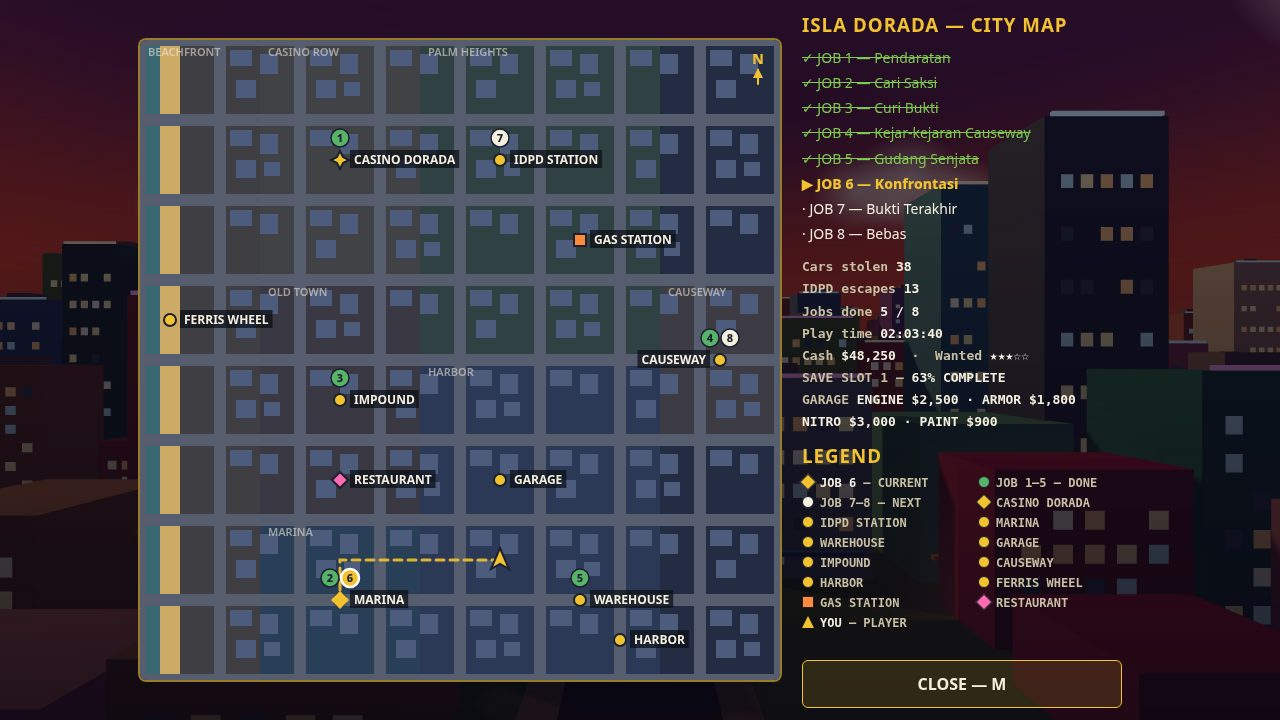
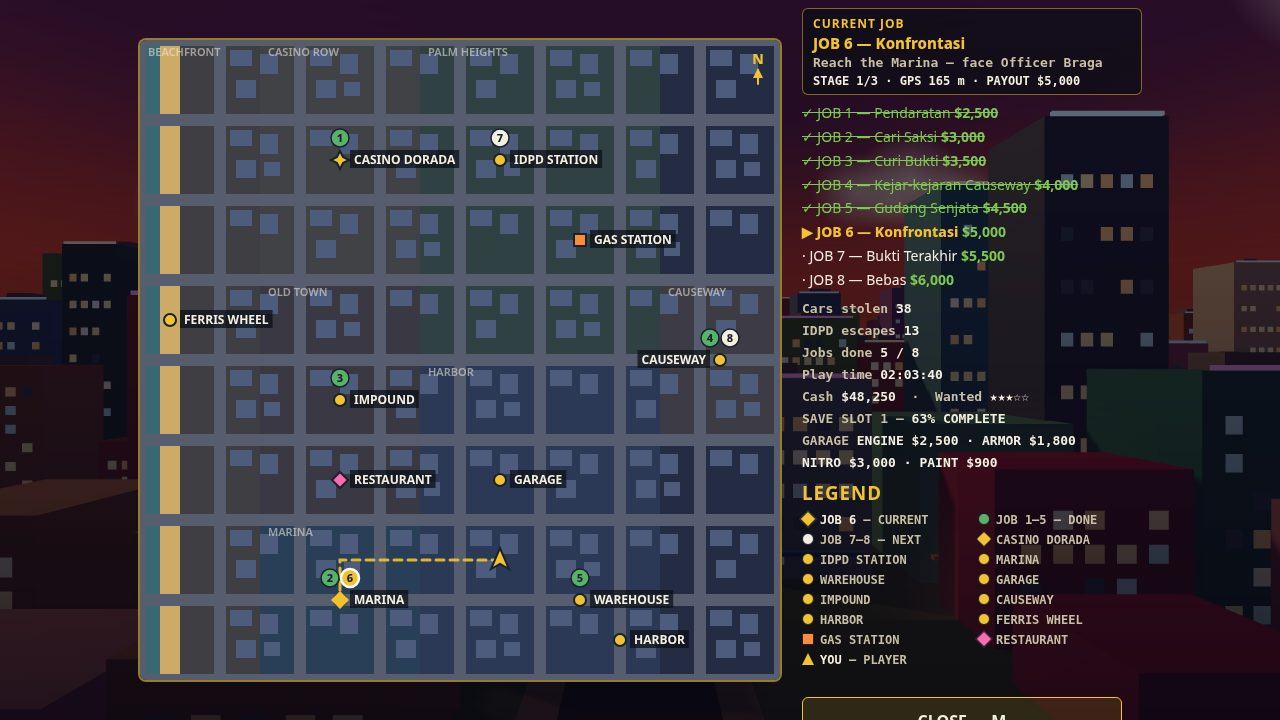
Map depth (recording #10): job payouts in checklist + CURRENT JOB panel (name, objective, stage, GPS, payout)

Changed region(s): [[0.625, 0.0, 0.875, 1.0]]

diff --git a/game/src/map.js b/game/src/map.js
@@ -11,6 +11,7 @@ import { Input } from './input.js';
 let canvas = null;
 let ctx = null;
 let checklistEl = null;
+let currentJobEl = null;
 let statsEl = null;
 let legendEl = null;
 let currentRoads = null;
@@ -131,8 +132,47 @@ function refreshChecklist(G) {
   checklistEl.innerHTML = MISSIONS.map((m, i) => {
     const cls = (i < idx || i < done) ? 'done' : (i === idx ? 'current' : '');
     const mark = (i < idx || i < done) ? '✓ ' : (i === idx ? '▶ ' : '· ');
-    return `<li class="${cls}">${mark}JOB ${i + 1} — ${m.name}</li>`;
+    // Payout: the same formula missions.js pays on completion
+    // (2000 + 500 * (index + 1)) — read from the formula, never hardcoded.
+    const pay = (2000 + 500 * (i + 1)).toLocaleString('en-US');
+    return `<li class="${cls}">${mark}JOB ${i + 1} — ${m.name} <span class="pay">$${pay}</span></li>`;
   }).join('');
+}
+
+// CURRENT JOB panel (HTML, in #map-side): the job in progress, from live G —
+// name + stage objective + stage + GPS distance + payout. Same data the HUD
+// mission panel and the minimap already show; the map now shows it too, the
+// way Halcyon's map shows its CURRENT JOB panel.
+function refreshCurrentJob(G) {
+  if (!currentJobEl) return;
+  const m = G.missions;
+  const idx = (m && typeof m.index === 'number') ? m.index : 0;
+  if (idx >= MISSIONS.length) {
+    currentJobEl.innerHTML =
+      `<h3>CURRENT JOB</h3>` +
+      `<div class="cj-name">ALL JOBS DONE</div>` +
+      `<div class="cj-obj">Isla Dorada is yours, Wowo.</div>` +
+      `<div class="cj-meta">8 / 8 COMPLETE</div>`;
+    return;
+  }
+  const def = MISSIONS[idx];
+  const stage = (m && typeof m.stage === 'number') ? m.stage : 1;
+  const stageCount = (m && typeof m.stageCount === 'number') ? m.stageCount : 3;
+  const objective = (m && m.objective) || def.objective || '';
+  const pay = (2000 + 500 * (idx + 1)).toLocaleString('en-US');
+  // GPS distance to the mission marker — the same formula the minimap uses.
+  let gps = '';
+  const marker = (m && m.marker) ? posOf(m.marker) : null;
+  const player = (G.player && G.player.pos) ? { x: G.player.pos.x, z: G.player.pos.z } : null;
+  if (marker && player) {
+    const d = Math.round(Math.hypot(marker.x - player.x, marker.z - player.z));
+    gps = ` · GPS ${d} m`;
+  }
+  currentJobEl.innerHTML =
+    `<h3>CURRENT JOB</h3>` +
+    `<div class="cj-name">JOB ${idx + 1} — ${def.name}</div>` +
+    `<div class="cj-obj">${objective}</div>` +
+    `<div class="cj-meta">STAGE ${stage}/${stageCount}${gps} · PAYOUT $${pay}</div>`;
 }
 
 function refreshStats(G) {
@@ -165,6 +205,7 @@ export function initMap(G) {
   canvas = document.getElementById('map-canvas');
   ctx = canvas ? canvas.getContext('2d') : null;
   checklistEl = document.getElementById('map-checklist');
+  currentJobEl = document.getElementById('map-current-job');
   statsEl = document.getElementById('map-stats');
   legendEl = document.getElementById('map-legend');
   const btn = document.getElementById('btn-close-map');
@@ -455,6 +496,7 @@ export function drawMap(G) {
 
   currentRoads = null;
   refreshChecklist(G);
+  refreshCurrentJob(G);
   refreshStats(G);
   refreshLegend(G);
 }

diff --git a/game/index.html b/game/index.html
@@ -90,12 +90,18 @@
   #map-canvas { border: 2px solid rgba(242,194,48,.6); border-radius: 8px; background: #10141f; }
   #map-side { width: 340px; }
   #map-side h3 { margin: 0 0 8px; color: var(--gold); letter-spacing: 1px; }
-  #map-checklist { list-style: none; margin: 0; padding: 0; font-size: 14px; line-height: 1.8; }
+  #map-checklist { list-style: none; margin: 0; padding: 0; font-size: 14px; line-height: 1.7; }
   #map-checklist li.done { color: var(--green); text-decoration: line-through; }
   #map-checklist li.current { color: var(--gold); font-weight: 800; }
-  #map-stats { margin-top: 10px; font: 600 13px var(--font-read); color: var(--muted); line-height: 1.7; }
+  #map-checklist .pay { color: var(--green); font-weight: 700; }
+  #map-current-job { margin: 0 0 6px; background: var(--panel); border: 1px solid rgba(242,194,48,.5); border-radius: 6px; padding: 6px 10px; }
+  #map-current-job h3 { margin: 0 0 1px; color: var(--gold); letter-spacing: 1px; font-size: 12px; }
+  #map-current-job .cj-name { color: var(--gold); font-weight: 800; font-size: 15px; }
+  #map-current-job .cj-obj { font: 600 13px var(--font-read); color: var(--muted); line-height: 1.5; }
+  #map-current-job .cj-meta { font: 700 12px var(--font-read); color: var(--ink); margin-top: 2px; }
+  #map-stats { margin-top: 6px; font: 600 13px var(--font-read); color: var(--muted); line-height: 1.7; }
   #map-stats b { color: var(--ink); }
-  #map-legend { margin-top: 10px; }
+  #map-legend { margin-top: 6px; }
   #map-legend h3 { margin: 0 0 6px; color: var(--gold); letter-spacing: 1px; }
   .legend-grid { display: grid; grid-template-columns: 1fr 1fr; gap: 2px 12px; font: 600 12px var(--font-read); color: var(--muted); line-height: 1.5; }
   .legend-grid b { color: var(--ink); }
@@ -187,6 +193,7 @@
   <canvas id="map-canvas" width="640" height="640"></canvas>
   <div id="map-side">
     <h3>ISLA DORADA — CITY MAP</h3>
+    <div id="map-current-job"></div>
     <ul id="map-checklist"></ul>
     <div id="map-stats"></div>
     <div id="map-legend"></div>
